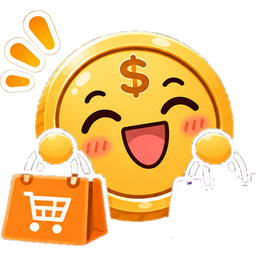
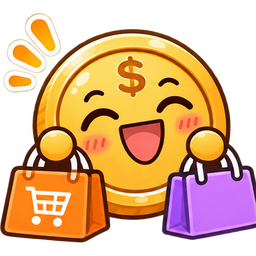
3.1：新六張硬幣換成 PK 給的透明背景版本

diff --git a/工單/3.1打卡日曆與設定小改工單.md b/工單/3.1打卡日曆與設定小改工單.md
@@ -21,7 +21,7 @@
 ## C 3.1 新增六張硬幣圖
 - 原圖：素材/拖拖硬幣/原圖/3.1新增六張.jpg（購物、吃飯、交通、投資、撲滿、帳單）；切好的在 src/assets/coins31/。是新增，舊六張表情不動。
 - 目前只用在 A 的打卡區。
-- **待處理**：原圖是 JPG、背景不透明，用程式去背有瑕疵（購物的紫色袋子缺一塊、交通硬幣外圈有殘邊、帳單的驚嘆號缺一點）。等 PK 給透明背景 PNG 再換。
+- 2026-11-22 PK 給透明背景 PNG（素材/拖拖硬幣/原圖/3.1新增六張(透明).png），已換成直接從透明圖切的版本，去背瑕疵解決。
 
 ## 驗證
 - 型別檢查通過；vitest 320 項全過（fix-protect 測試的預期文字跟著改成「自動存檔失敗」）。
